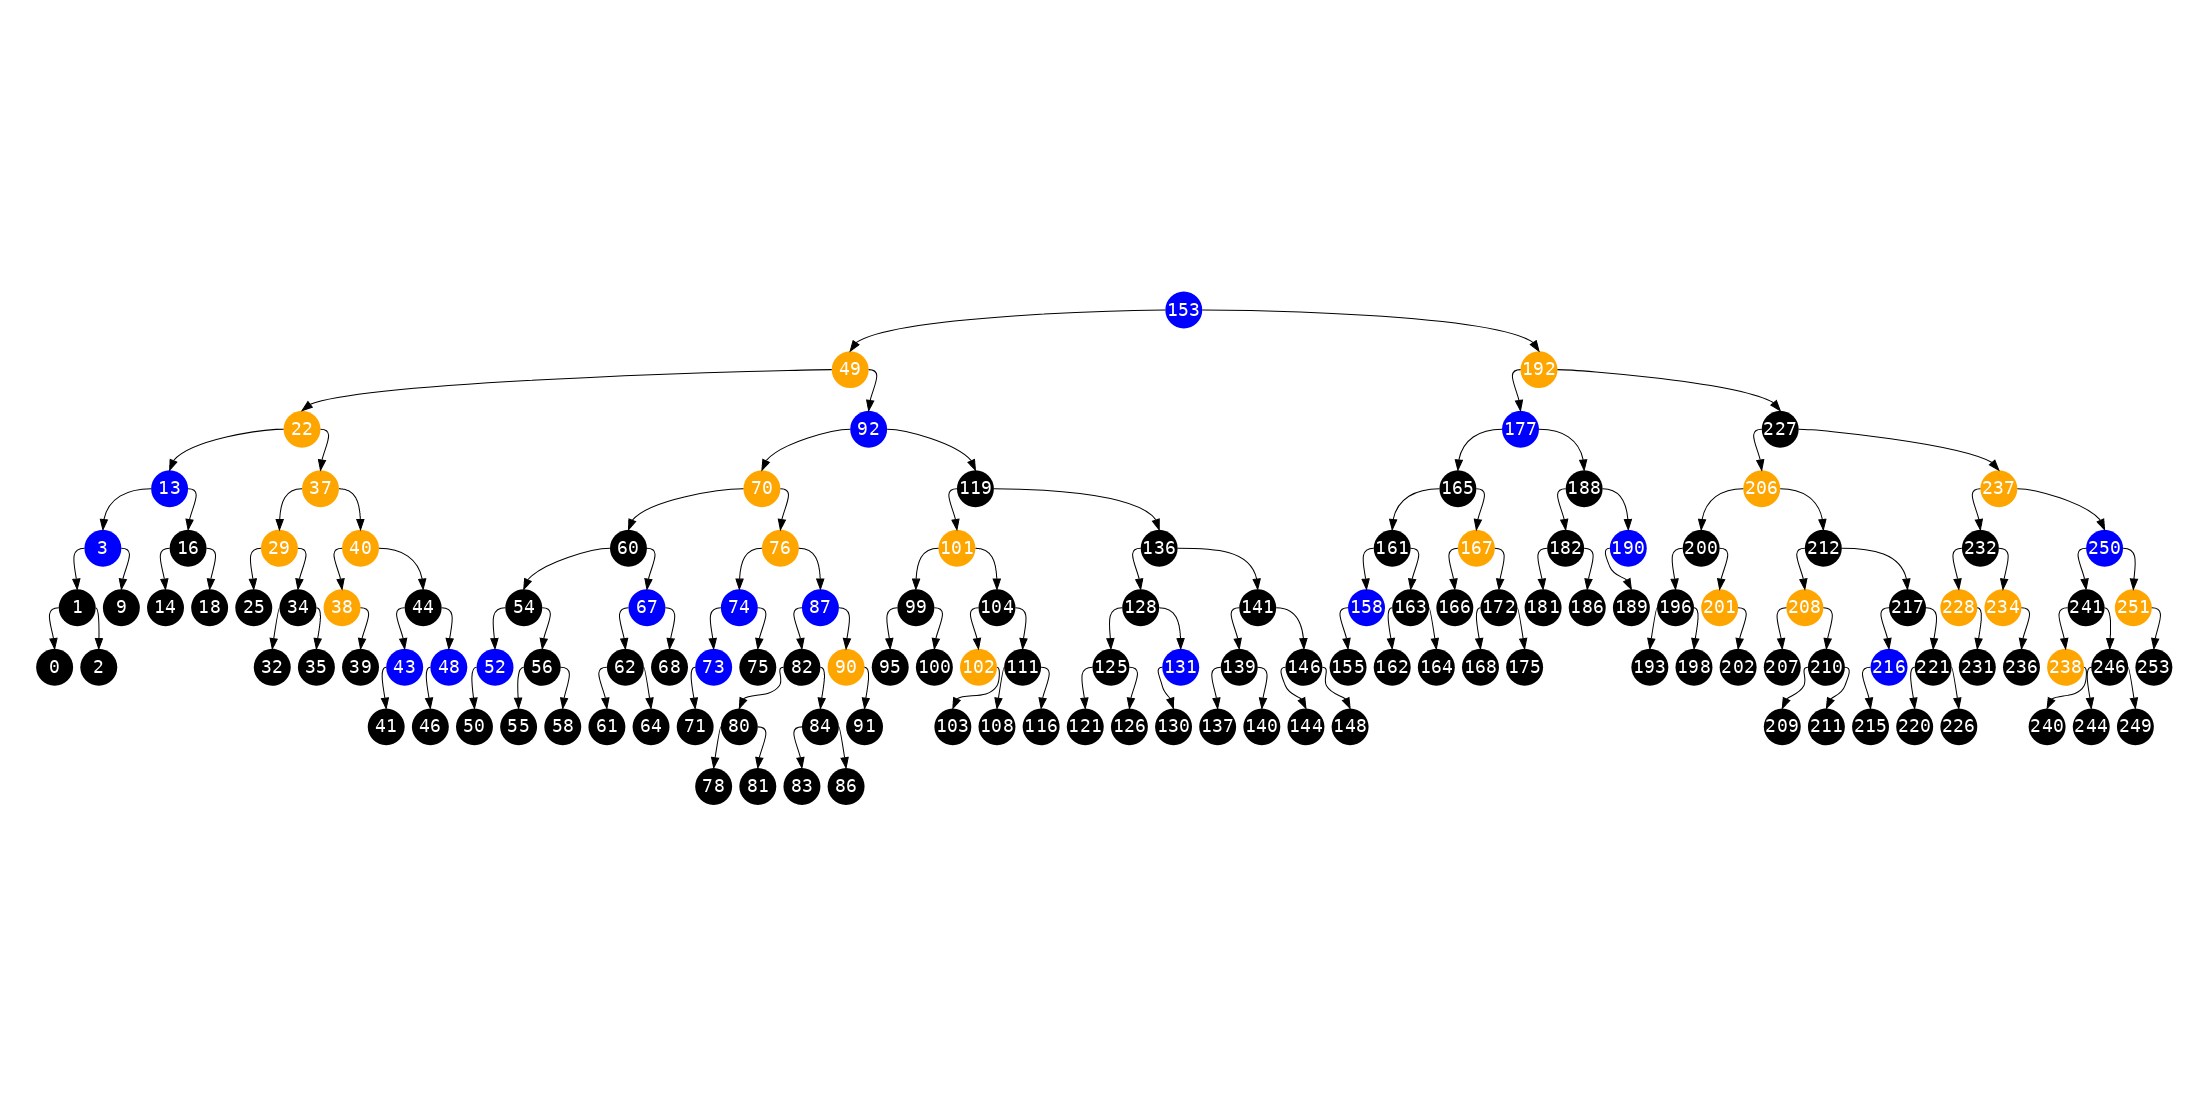
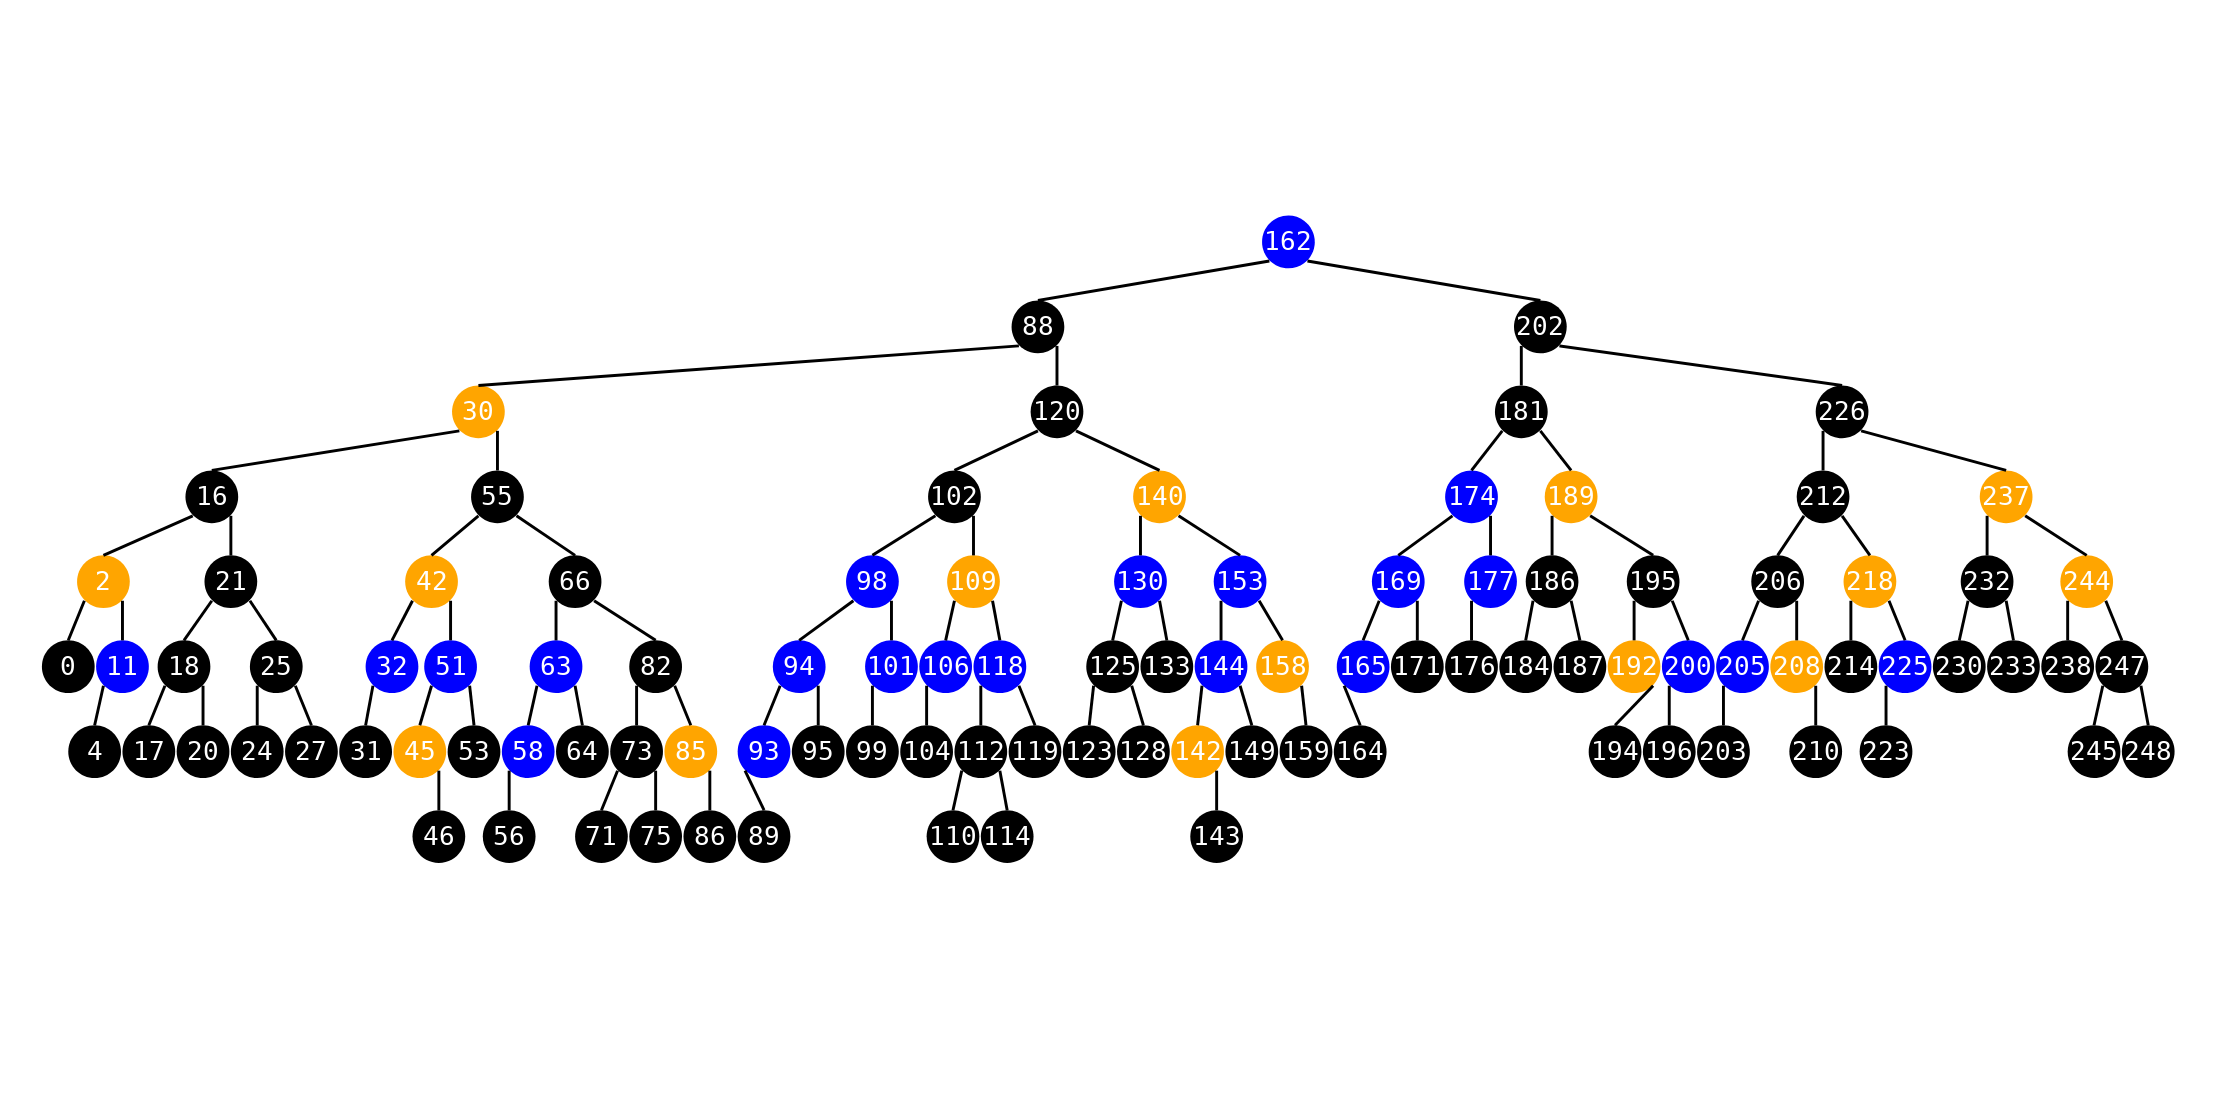
Update the docs

Changed region(s): [[0.0, 0.1846, 0.9995, 0.8]]

diff --git a/test.cpp b/test.cpp
@@ -150,21 +150,23 @@ void printGraphviz(const Node<T>* const nd)
     std::puts("digraph {");
     std::puts(
         "node [style=filled,shape=circle,fontcolor=white,penwidth=0,fontname=\"monospace\",fixedsize=1,fontsize=18];");
-    std::puts("nodesep=0.1;ranksep=0.3;");
+    std::puts("edge [arrowhead=none,penwidth=2];");
+    std::puts("nodesep=0.0;ranksep=0.3;splines=false;");
     traverse<true>(nd, [](const Node<T>* const x) {
         const char* const fill_color = (x->bf == 0) ? "black" : ((x->bf > 0) ? "orange" : "blue");
-        std::printf("\"%u\"[fillcolor=%s];", unsigned(x->value), fill_color);
+        std::printf("%u[fillcolor=%s];", unsigned(x->value), fill_color);
     });
+    std::puts("");
     traverse<true>(nd, [](const Node<T>* const x) {
         if (x->lr[0] != nullptr)
         {
-            std::printf("\"%u\":w->\"%u\":n;",
+            std::printf("%u:sw->%u:n;",
                         unsigned(x->value),
                         unsigned(reinterpret_cast<Node<T>*>(x->lr[0])->value));
         }
         if (x->lr[1] != nullptr)
         {
-            std::printf("\"%u\":e->\"%u\":n;",
+            std::printf("%u:se->%u:n;",
                         unsigned(x->value),
                         unsigned(reinterpret_cast<Node<T>*>(x->lr[1])->value));
         }

diff --git a/cavl.h b/cavl.h
@@ -1,7 +1,7 @@
 /// Source: https://github.com/pavel-kirienko/cavl
 ///
 /// Cavl is a single-header C library providing an implementation of AVL tree suitable for deeply embedded systems.
-/// To integrate it into your project, simply copy this file into your source tree.
+/// To integrate it into your project, simply copy this file into your source tree. Read the API docs below.
 ///
 /// See also O1Heap <https://github.com/pavel-kirienko/o1heap> -- a deterministic memory manager for hard-real-time
 /// high-integrity embedded systems.
@@ -39,7 +39,7 @@ extern "C" {
 
 /// The tree node/root. The user data is to be added through composition/inheritance.
 /// The memory layout of this type is compatible with void*[4], which is useful if this type cannot be exposed in API.
-/// Per standard convention, nodes that compare smaLLer are put on the Left; those that are laRgeR are on the Right.
+/// Per standard convention, nodes that compare smaller are put on the left.
 typedef struct Cavl Cavl;
 struct Cavl
 {

diff --git a/README.md b/README.md
@@ -9,5 +9,6 @@ The usage instructions are provided in the comments.
 A complete test suite is provided in `test.cpp`; it includes an exhaustive randomized test.
 
 For development-related instructions please refer to the CI configuration file.
+To release a new version, simply create a new tag.
 
 ![Tree](randomized_test_tree.png "Random tree generated by the test suite")
